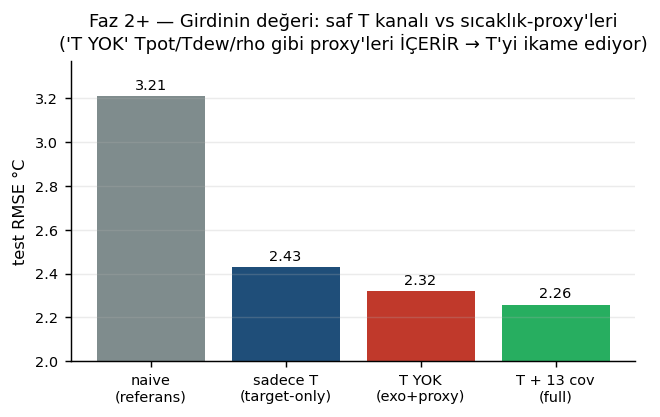
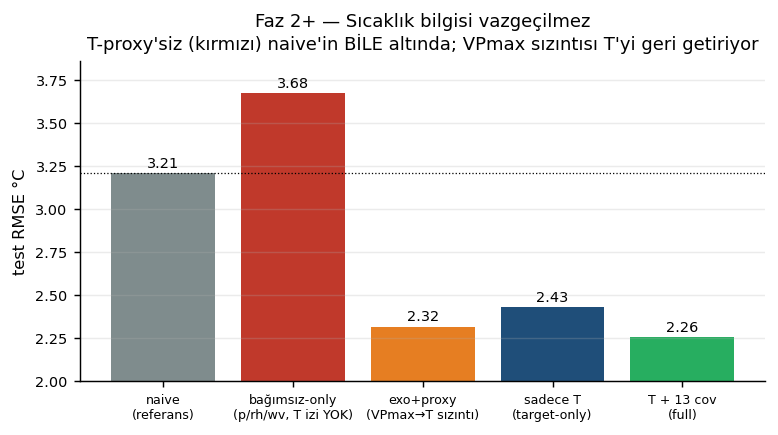
Fix temperature-leakage in the input-value ablation; honest no-T result
The "exogenous-only" experiment leaked temperature: the thermodynamic
covariates analytically recover T -- VPmax->T (single-variable Magnus
inverse) RMSE 0.046 degC, Tpot+p->T 0.010 degC, rho+p->T 0.22 degC, vs T's
own std of 8.41 degC. So "T removed but VPmax kept" still carries T almost
exactly, which is why it matched target-only.

Honest version (--covset independent): keep only genuinely independent
sensors (p, rh, wv, max.wv, wd) from which T is NOT analytically
recoverable. Four-tier RMSE: naive 3.21 / independent-only 3.68 /
exo+proxy(leaky) 2.32 / target-only 2.43 / full 2.26.

Conclusion: past temperature is indispensable and dominant -- without any
temperature trace the model falls BELOW naive (3.68 > 3.21); the earlier
"exogenous is fine" impression was purely a VPmax-leakage artefact. Good
methodological-honesty example for the report.

input_value.png updated to five tiers (independent-only highlighted).

diff --git a/scripts/run_exogenous_only.py b/scripts/run_exogenous_only.py
@@ -45,14 +45,26 @@ ALPHA = 0.1
 DEVICE = "cuda" if torch.cuda.is_available() else "cpu"
 
 
+# Variables from which temperature is NOT analytically recoverable: pressure,
+# relative humidity, wind speed/gust/direction. The thermodynamic family
+# (Tpot, Tdew, VP*, sh, H2OC, rho) leaks T almost exactly (VPmax->T RMSE
+# 0.05 degC, Tpot+p->T 0.01 degC -- see the leakage check), so an honest
+# "no temperature" input must exclude them.
+TRULY_INDEPENDENT = ["p (mbar)", "rh (%)", "wv (m/s)", "max. wv (m/s)", "wd (deg)"]
+
+
 def main() -> None:
     ap = argparse.ArgumentParser()
     ap.add_argument("--smoke", action="store_true")
+    ap.add_argument("--covset", choices=("all", "independent"), default="all",
+                    help="'all' = 13 exogenous incl. temperature-derived proxies "
+                         "(LEAKS T); 'independent' = only p/rh/wind (no T leakage)")
     args = ap.parse_args()
 
     df = load_hourly(ROOT / "data" / "processed")
-    all_cov = [c for c in df.columns if c != TARGET]
-    data = E.prepare(use_covariates=True, covariate_cols=all_cov)  # T + cal + 13
+    all_cov = ([c for c in df.columns if c != TARGET] if args.covset == "all"
+               else list(TRULY_INDEPENDENT))
+    data = E.prepare(use_covariates=True, covariate_cols=all_cov)
     L, H = 168, 24
 
     x_tr, y_tr = make_encoder_windows(data.train, L, H, stride=1)
@@ -94,14 +106,20 @@ def main() -> None:
         refs["naive_seasonal"] = {"rmse": json.loads(nv.read_text())["rmse"]}
 
     out = {
+        "covset": args.covset,
+        "covariates_used": all_cov,
+        "leaks_temperature": args.covset == "all",
         "exogenous_only": {"crps": r["crps"], "rmse": r["rmse"], "picp": r["picp"],
                            "n_input_channels": n_feat},
         "references": refs,
-        "interpretation": "compare exogenous_only vs target_only: if close, past T "
-                          "is redundant given the other sensors; if far, T dominates",
+        "interpretation": ("covset=all LEAKS T via VPmax/Tpot (RMSE matches target-only "
+                           "trivially); covset=independent is the honest no-temperature "
+                           "test -- if far above naive, the independent sensors alone "
+                           "cannot forecast temperature"),
         "smoke": bool(args.smoke),
     }
-    out_path = ROOT / "results" / "base" / "exogenous_only.json"
+    suffix = "" if args.covset == "all" else "_independent"
+    out_path = ROOT / "results" / "base" / f"exogenous_only{suffix}.json"
     out_path.write_text(json.dumps(out, indent=2))
     print("\n=== Üç-yönlü girdi kıyası (test CRPS / RMSE) ===")
     print(f"  target-only (sadece T) : CRPS {refs.get('target_only',{}).get('crps','?')}  "

diff --git a/scripts/make_phase_figures.py b/scripts/make_phase_figures.py
@@ -286,21 +286,26 @@ def fig_p2_input_value() -> None:
         return
     d = json.loads(p.read_text())
     e, r = d["exogenous_only"], d["references"]
+    pi = RES / "base" / "exogenous_only_independent.json"
+    indep = json.loads(pi.read_text())["exogenous_only"]["rmse"] if pi.exists() else None
     bars = [
         ("naive\n(referans)", r.get("naive_seasonal", {}).get("rmse"), "#7f8c8d"),
+        ("bağımsız-only\n(p/rh/wv, T izi YOK)", indep, "#c0392b"),
+        ("exo+proxy\n(VPmax→T sızıntı)", e["rmse"], "#e67e22"),
         ("sadece T\n(target-only)", r.get("target_only", {}).get("rmse"), "#1f4e79"),
-        ("T YOK\n(exo+proxy)", e["rmse"], "#c0392b"),
         ("T + 13 cov\n(full)", r.get("full_T_plus_cov", {}).get("rmse"), "#27ae60"),
     ]
     bars = [b for b in bars if b[1] is not None]
-    fig, ax = plt.subplots(figsize=(5.6, 3.0))
+    fig, ax = plt.subplots(figsize=(6.8, 3.2))
     ax.bar([b[0] for b in bars], [b[1] for b in bars], color=[b[2] for b in bars])
     for i, b in enumerate(bars):
         ax.text(i, b[1] + 0.03, f"{b[1]:.2f}", ha="center", fontsize=8)
+    ax.axhline(r.get("naive_seasonal", {}).get("rmse", 3.21), color="k", lw=0.7, ls=":")
     ax.set_ylabel("test RMSE °C")
     ax.set_ylim(2.0, None)
-    ax.set_title("Faz 2+ — Girdinin değeri: saf T kanalı vs sıcaklık-proxy'leri\n"
-                 "('T YOK' Tpot/Tdew/rho gibi proxy'leri İÇERİR → T'yi ikame ediyor)")
+    ax.set_title("Faz 2+ — Sıcaklık bilgisi vazgeçilmez\n"
+                 "T-proxy'siz (kırmızı) naive'in BİLE altında; VPmax sızıntısı T'yi geri getiriyor")
+    ax.tick_params(axis="x", labelsize=7)
     ax.grid(axis="y", alpha=0.25)
     _save(fig, 2, "input_value.png")
 